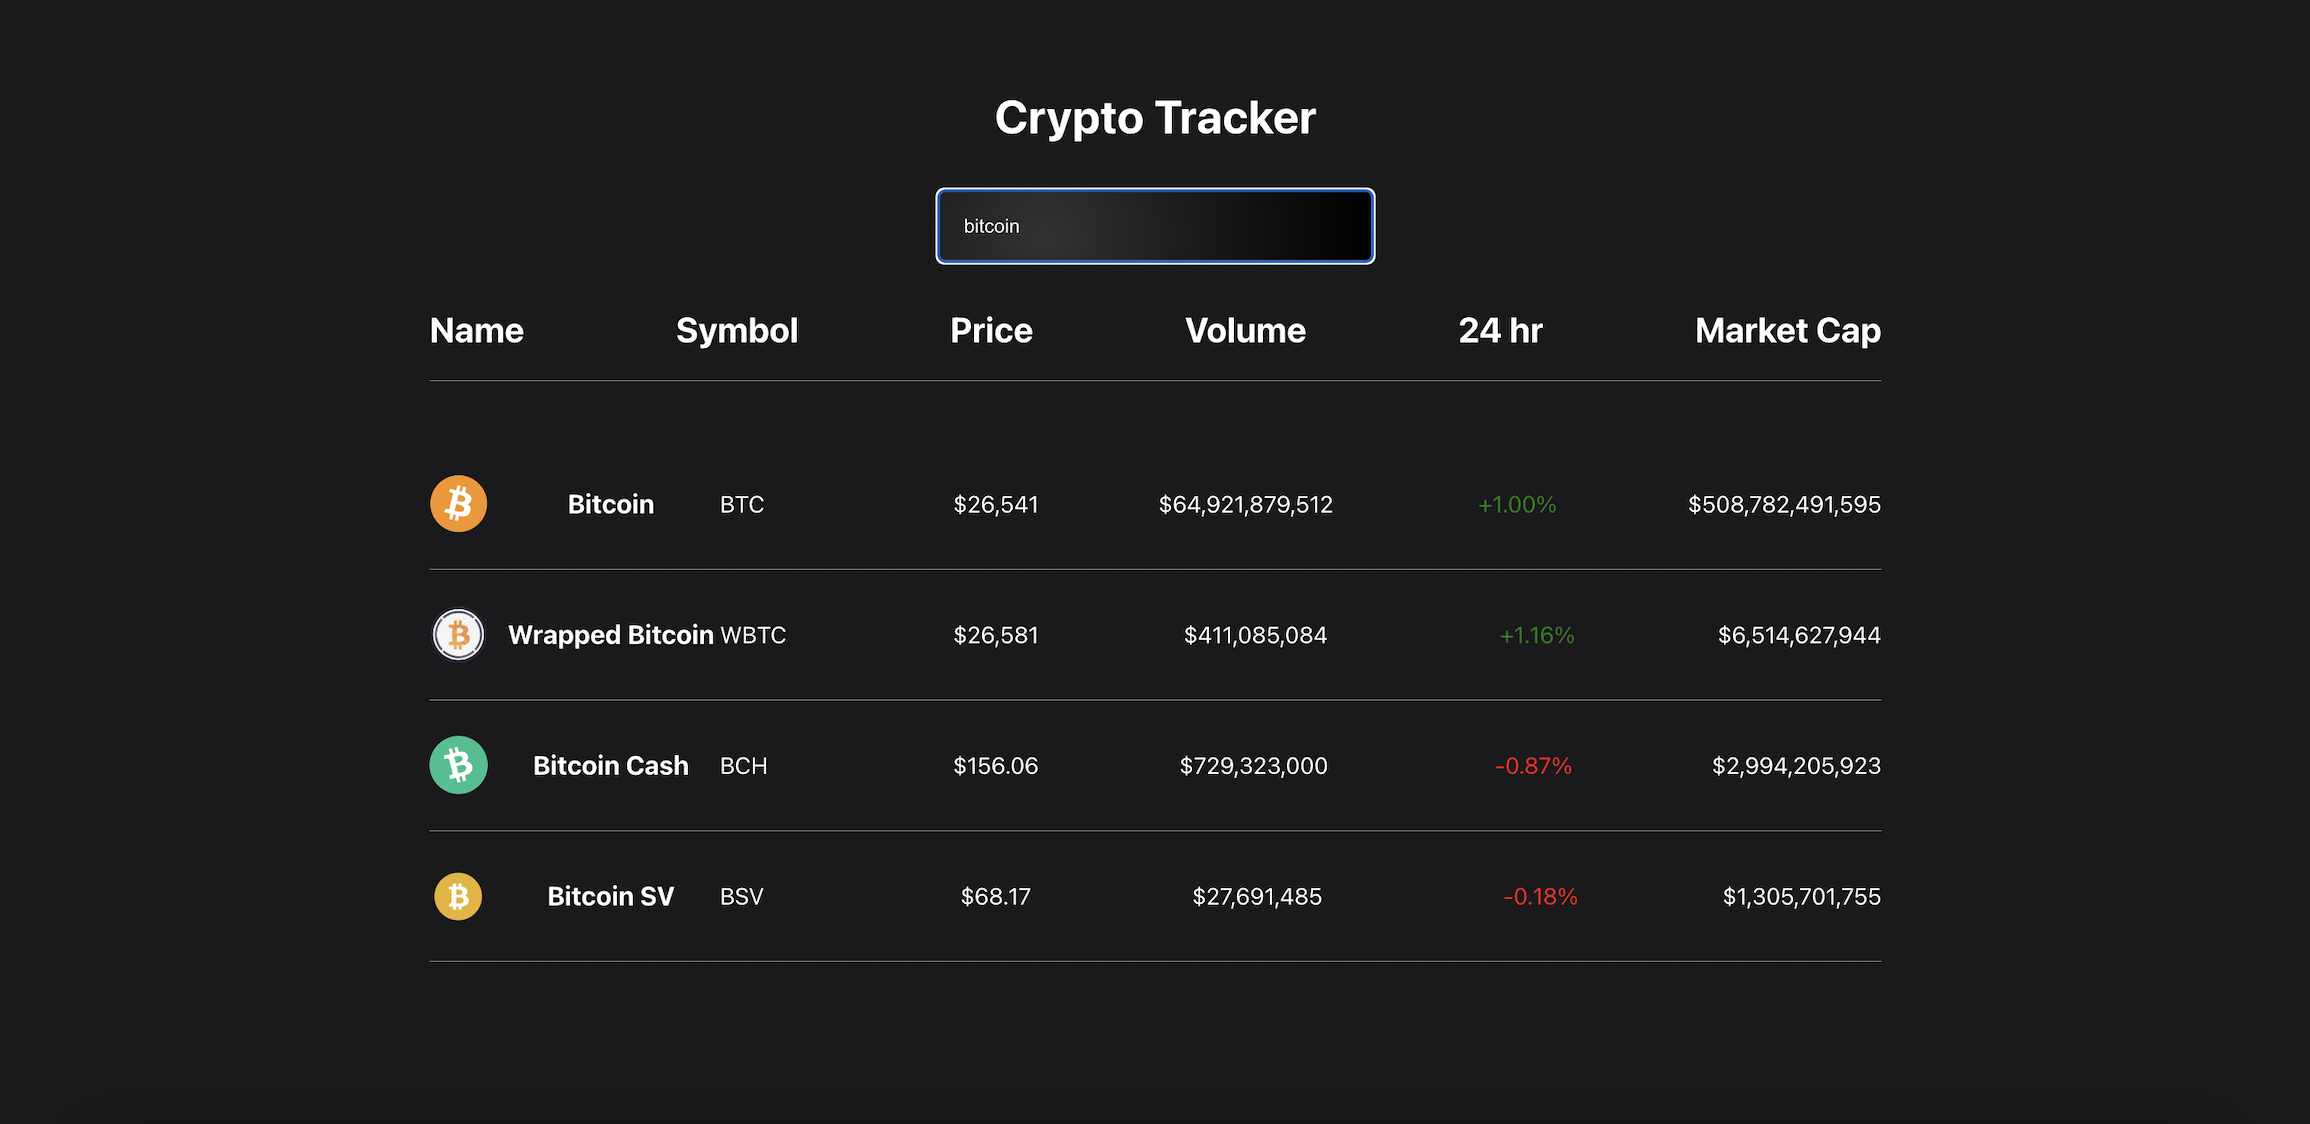
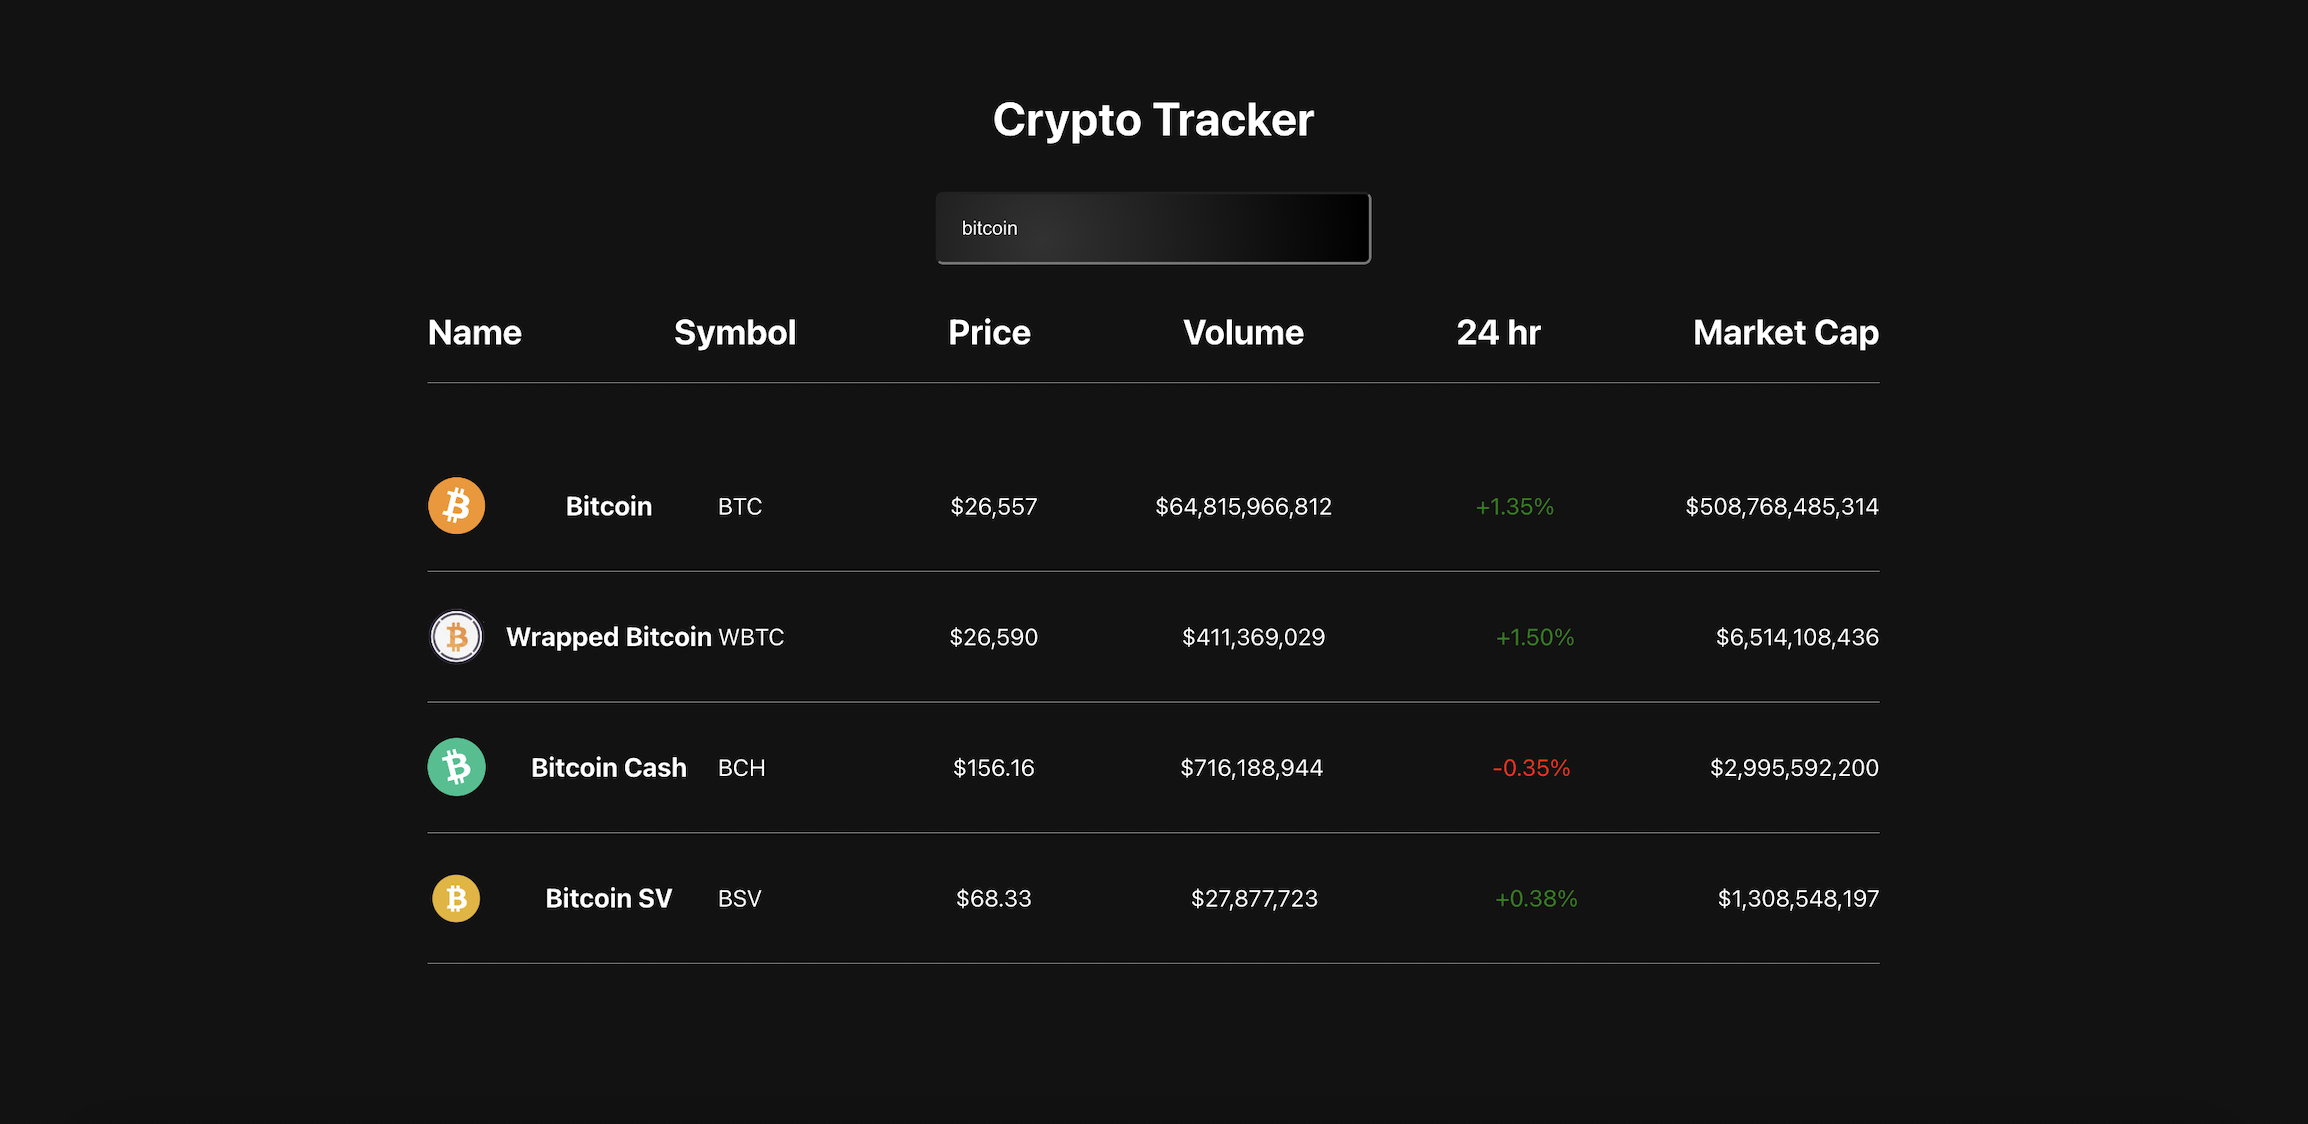
update screenshots

diff --git a/src/App.css b/src/App.css
@@ -41,6 +41,6 @@
   box-sizing: border-box;
   margin: 0;
   padding: 0;
-  background: #1a1a1c;
+  background: #121212;
   color: white;
 }
